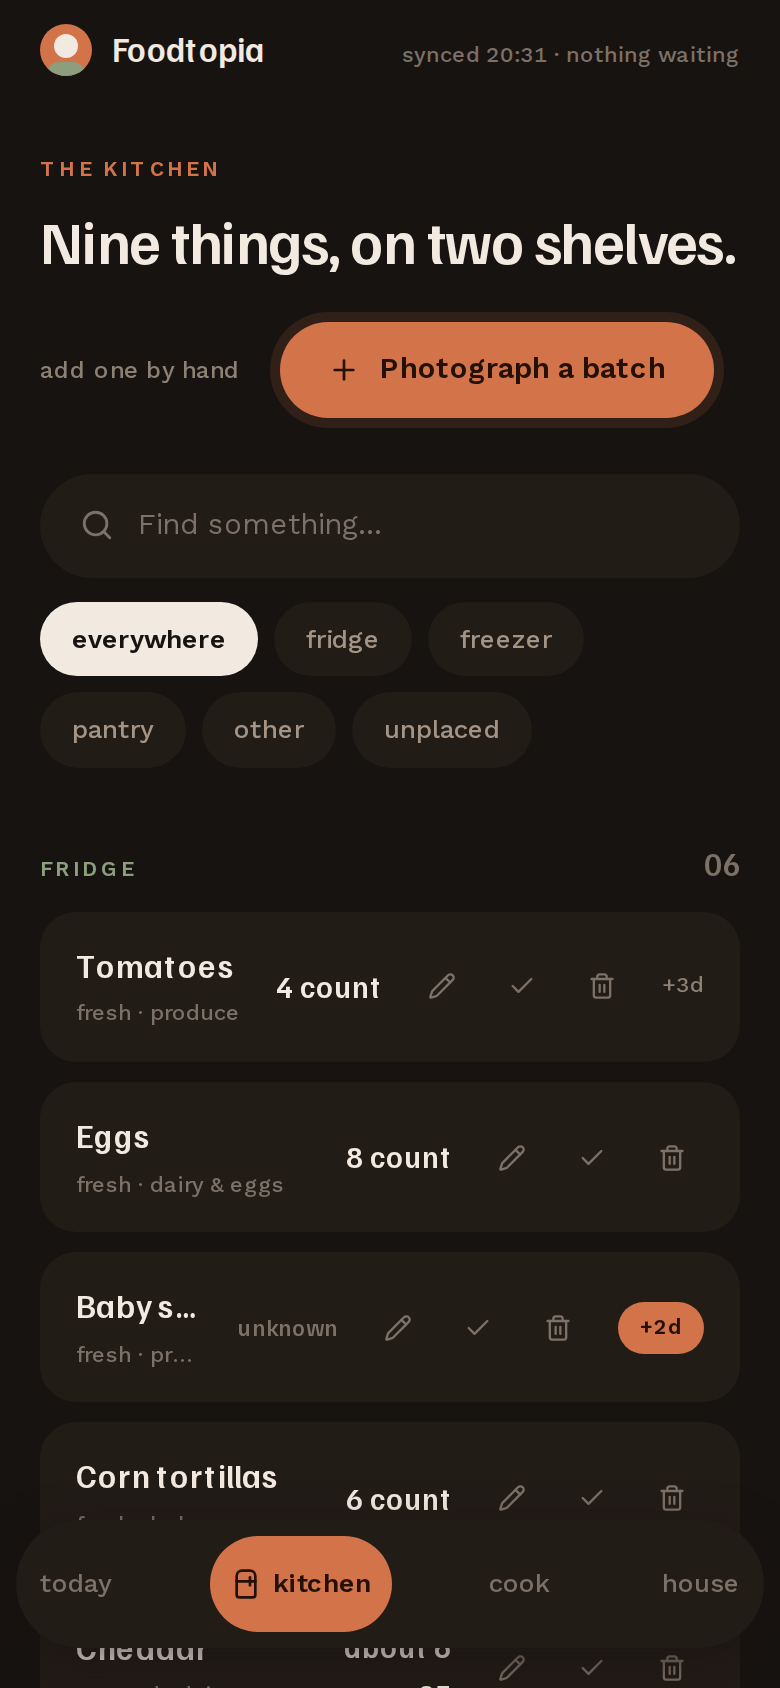
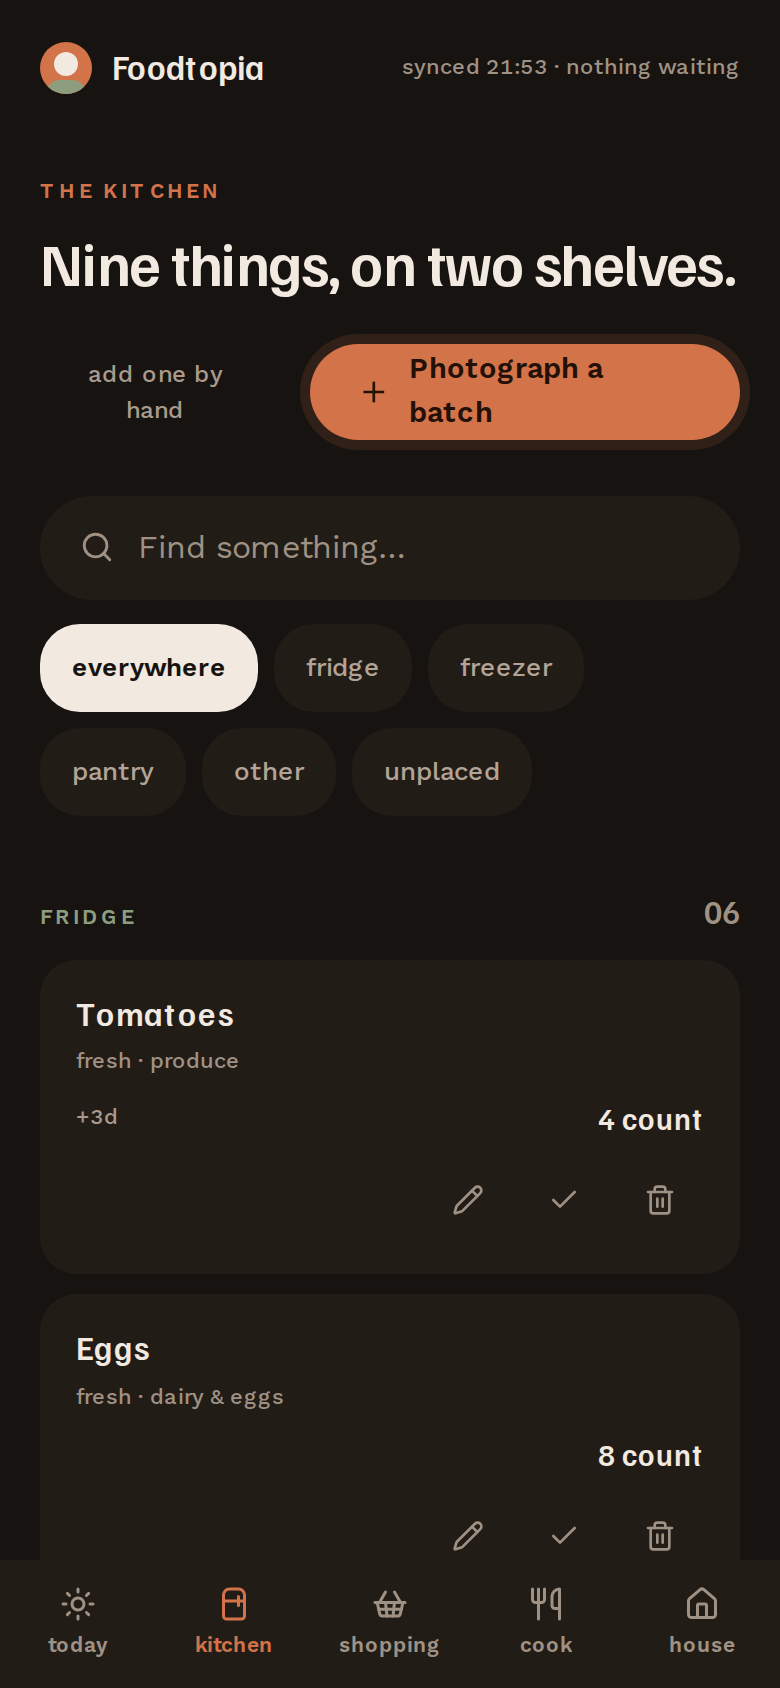
Refresh showcase screenshots (#11)

diff --git a/README.md b/README.md
@@ -32,7 +32,7 @@ An invite-only, mobile-first household food inventory PWA built on one dependabl
 
 <div align="center">
 
-<img src="docs/showcase/screens.png" alt="Foodtopia screens — Today, Kitchen, Add food, Cook, Household" width="90%">
+<img src="docs/showcase/screens.png" alt="Foodtopia screens — Today, Kitchen, Shopping, Add food, Cook, Household" width="90%">
 
 </div>
 
@@ -148,6 +148,6 @@ pnpm eval:vision path/to/manifest.json path/to/vision-results.json
 
 ## Deliberate boundaries
 
-Foodtopia does not claim allergen safety, nutrition accuracy, freshness, edibility, or printed-date safety. Curated substitutions are directed, deterministic, visible, and require confirmation; they are not identity aliases or allergy guidance. When deterministic matching returns nothing, the configured household model may create one strict draft from confirmed global food concepts and staples. The draft cannot be cooked, suggested, or shared publicly until a member approves it as a private household recipe; denial clears its payload. Raw meal prompts and inventory labels are not retained with proposals. The initial release still excludes barcode/receipt OCR, automatic date extraction, public AI-generated recipes, shopping lists, meal calendars, nutrition optimization, push reminders, billing, native apps, and multi-household switching.
+Foodtopia does not claim allergen safety, nutrition accuracy, freshness, edibility, or printed-date safety. Curated substitutions are directed, deterministic, visible, and require confirmation; they are not identity aliases or allergy guidance. When deterministic matching returns nothing, the configured household model may create one strict draft from confirmed global food concepts and staples. The draft cannot be cooked, suggested, or shared publicly until a member approves it as a private household recipe; denial clears its payload. Raw meal prompts and inventory labels are not retained with proposals. The initial release still excludes receipt OCR, automatic date extraction, public AI-generated recipes, meal calendars, nutrition optimization, push reminders, billing, native apps, and multi-household switching.
 
 See [`docs/operations.md`](docs/operations.md) for raw-image retention, incident handling, and deletion procedures, and [`src/app/privacy/page.tsx`](src/app/privacy/page.tsx) for the user-facing beta notice.
